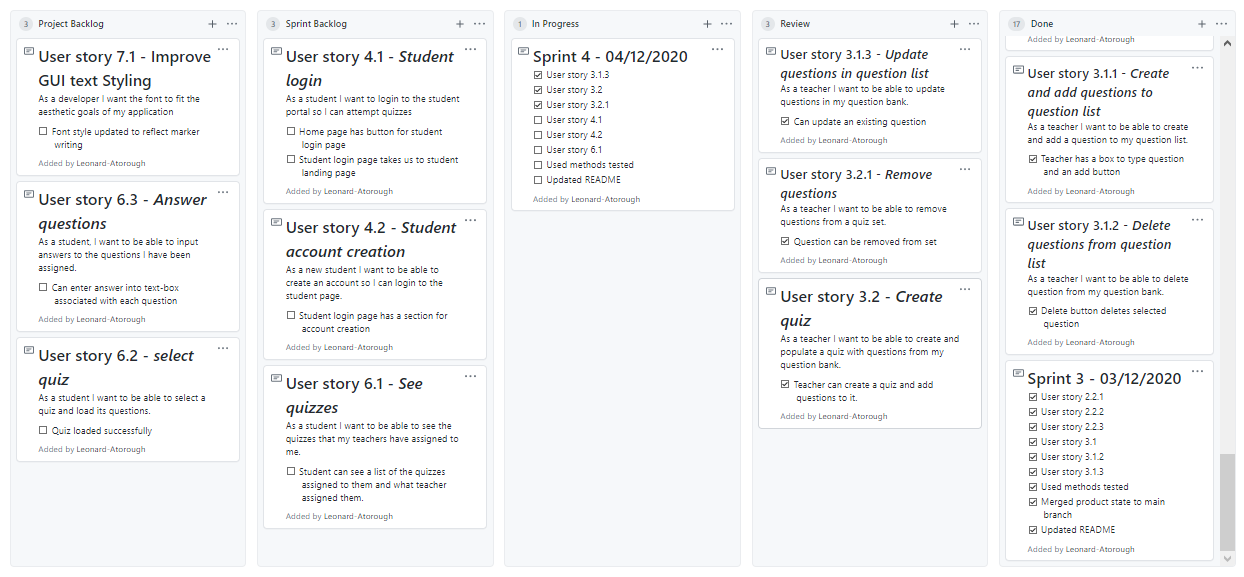
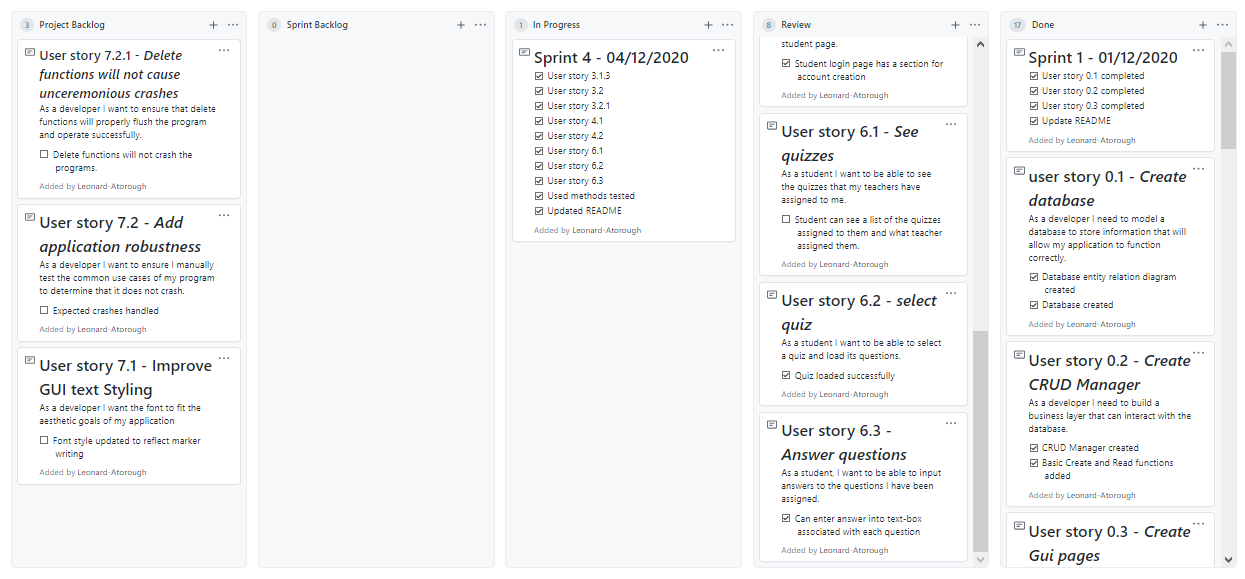
Updated readme and fixed bug with deleting questions

diff --git a/QuizApplication/QuizApplicationBusinessLayer/CRUDManager.cs b/QuizApplication/QuizApplicationBusinessLayer/CRUDManager.cs
@@ -373,6 +373,13 @@ namespace QuizApplicationBusinessLayer
             {
                 var selectedQuestion = db.Questions.Where(q => q.Question1 == question).FirstOrDefault();
 
+                var associatedAnswers = db.StudentAnswers.Where(a => a.QuestionId == selectedQuestion.QuestionId).ToList();
+
+                foreach (var item in associatedAnswers)
+                {
+                    db.StudentAnswers.Remove(item);
+                }
+                selectedQuestion.QuizId = null;
                 db.Questions.Remove(selectedQuestion);
                 db.SaveChanges();
             }

diff --git a/README.md b/README.md
@@ -20,7 +20,7 @@ The application will be defined as done when the minimum viable product, as laid
 
 ### Class Diagrams
 
-
+![](https://raw.githubusercontent.com/Leonard-Atorough/QuizApplication/Dev/Kanban%20pictures/Class%20Diagram.PNG)
 
 ---
 
@@ -44,9 +44,9 @@ By the end of this sprint I aimed to have a three tier application structured wi
 
 #### Sprint Goals
 
-- [x] Complete user story 0.1
-- [x] Complete user story 0.2
-- [x] Complete user story 0.3
+- [x] Complete user story 0.1 - Create and scaffold database
+- [x] Complete user story 0.2  - Create business layer
+- [x] Complete user story 0.3 - create basic GUI
 - [x] Complete sprint documentation
 - [x] Complete sprint retrospective
 - [x] Update README
@@ -109,8 +109,6 @@ The aim of this spring was to finish implementing the functions of the teachers 
 
 ![](https://raw.githubusercontent.com/Leonard-Atorough/QuizApplication/Dev/Kanban%20pictures/SprintThree%20start.PNG)
 
-
-
 #### Sprint Goals
 
 - [x] Complete user story 2.2.1 - Student list search bar
@@ -131,3 +129,48 @@ The goals of the sprint were met. One blocker was in implementing the search bar
 #### Sprint Retrospective
 
 As with the previous sprint, the lack of unit testing is concerning but manual testing has proven sufficient for catching fault or incomplete logic in the program. As previously mention, unit tests will be implemented to test the reaches of the program and explore edge cases, even those already covered.
+
+![](https://raw.githubusercontent.com/Leonard-Atorough/QuizApplication/Dev/Kanban%20pictures/SprintThree%20end.PNG)
+
+---
+
+
+
+### SPRINT 4 - 04/12/2020 to 05/12/2020
+
+---
+
+The aim of the fourth sprint was the completion of the teacher functionality as well as developing the login events and functions for the student side of the application. The teacher side of the application would have the ability to create new quizzes, delete existing quizzes and update the questions within those quizzes at will. The students would be able to login or signup and see the quizzes their teachers have made.
+
+![](https://raw.githubusercontent.com/Leonard-Atorough/QuizApplication/Dev/Kanban%20pictures/SprintFour%20start.PNG)
+
+
+
+#### Sprint Goals
+
+- [x] Complete user story 3.1.3 - Student list search bar
+- [x] Complete user story 3.2 - Add student from general list to class list
+- [x] Complete user story  3.2.1 - Remove student from class list
+- [x] Complete user story 4.1 - See list of created questions
+- [x] Complete user story 4.2 - Add questions from question list
+- [x] Complete user story 6.1 - Remove questions from question list
+- [x] Complete sprint documentation
+- [x] Complete sprint retrospective
+- [x] Update README
+
+#### Sprint Review
+
+The sprint was originally planned as a one day sprint but ended up covering two days due to multiple interruptions. The goals of the sprint were met and then exceed. The application, as currently planned, was completed by the end of the sprint with the remaining work being tests to ensure the robustness of application functionality.
+
+#### Sprint Retrospective
+
+The sprint was not planned as efficiently and many distractions and interruptions caused the sprint to extend over two days. However, a lot of tasks were accomplished and the application benefited from the extended sprint. More tasks than planned were completed and many bugs and crashes were fixed the the process. The main takeaway from this sprint was that many application functions needed expanded manual testing. Intentionally breaking the application in order to reveal errors proved useful as a means of testing.
+
+---
+
+
+
+### Sprint 5 - 06/12/2020
+
+---
+
